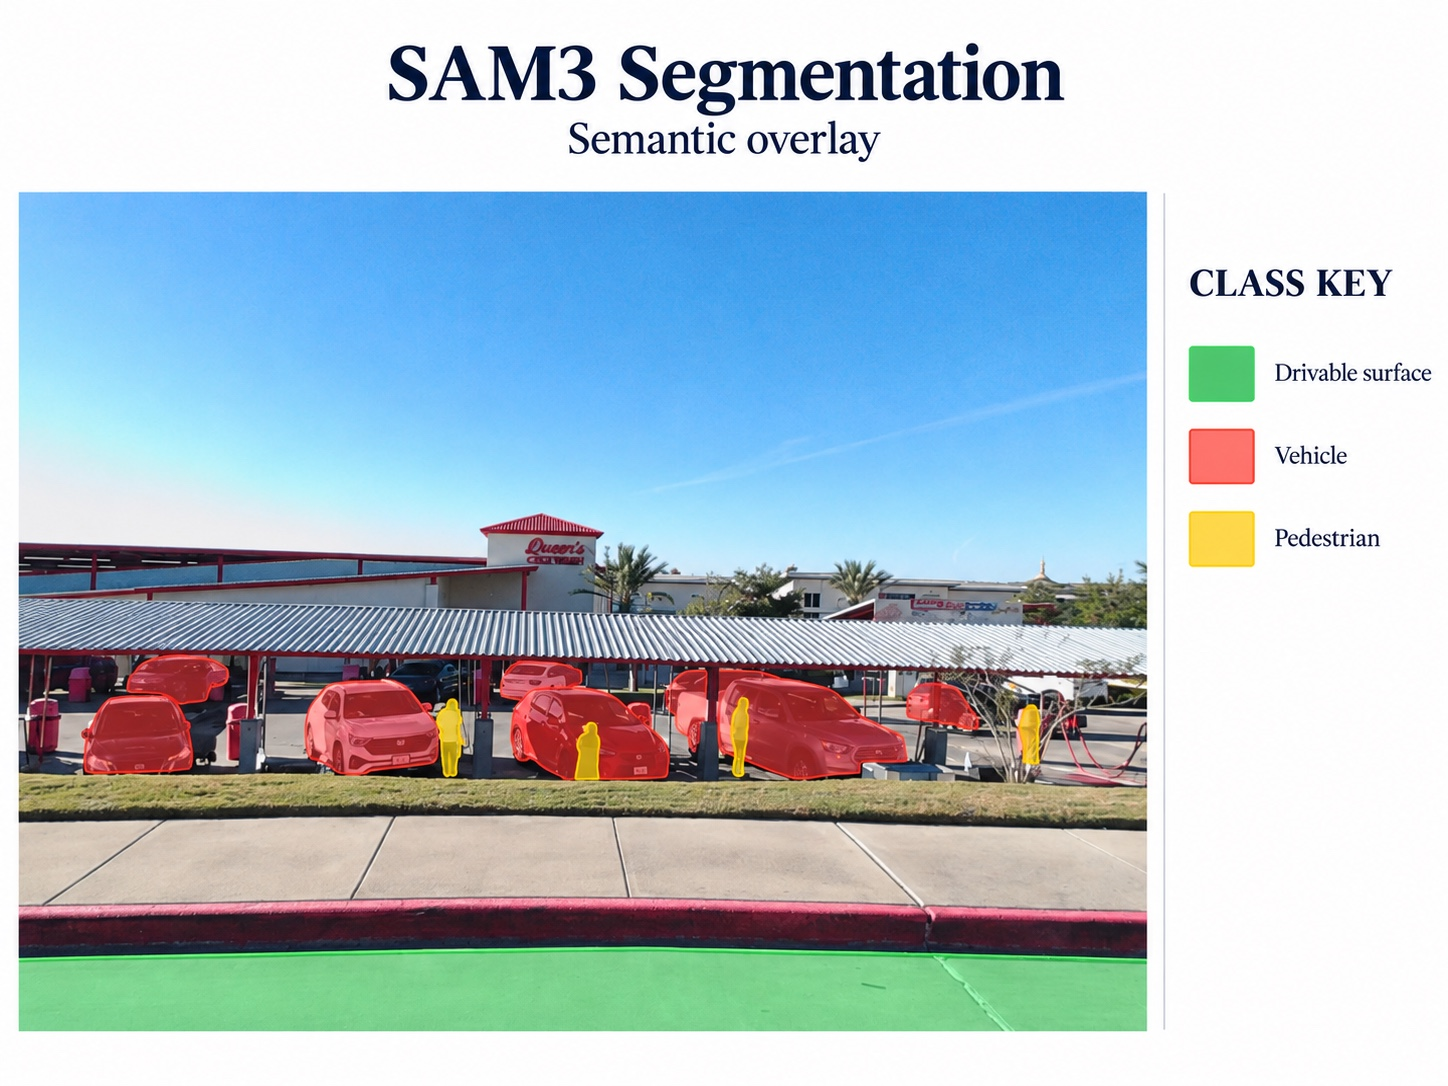
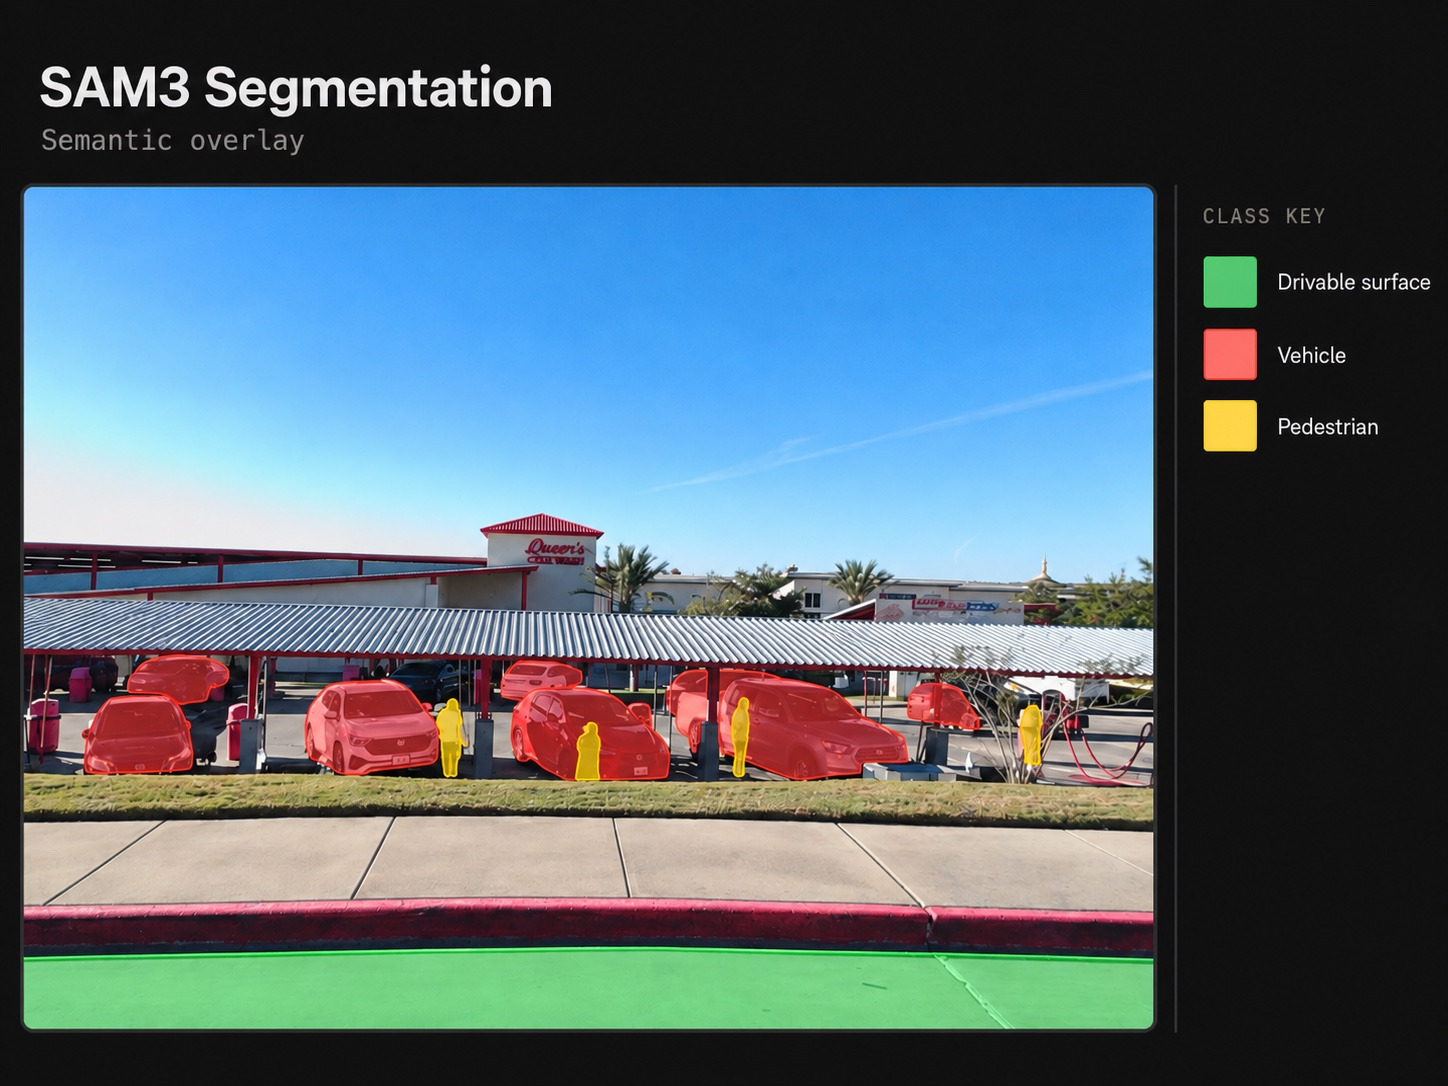
Mark project titles as links; update SAM3 segmentation image and caption

diff --git a/src/styles/global.css b/src/styles/global.css
@@ -395,8 +395,25 @@ section[id] { scroll-margin-top: 4.5rem; }
    one big click target while media links inside it remain clickable. */
 .item-linked { position: relative; }
 .item-linked .item-title { border-bottom: none; }
+/* Underline + arrow mark the title as a link; both strengthen on hover. */
+.item-title-text {
+  text-decoration: underline;
+  text-decoration-thickness: 1px;
+  text-decoration-color: color-mix(in srgb, var(--fg) 30%, transparent);
+  text-underline-offset: 0.3em;
+  transition: text-decoration-color 0.15s ease;
+}
+.item-arrow {
+  display: inline-block;
+  margin-left: 0.35em;
+  font-size: 0.95em;
+  color: var(--muted);
+  transition: transform 0.25s cubic-bezier(0.22, 1, 0.36, 1), color 0.2s ease;
+}
+.item-linked:hover:not(:has(.media:hover)) .item-title-text { text-decoration-color: var(--fg); }
+.item-linked:hover:not(:has(.media:hover)) .item-arrow { transform: translateX(4px); color: var(--fg); }
 .item-linked .item-title::after { content: ''; position: absolute; inset: 0; }
-.item-linked:has(.media:hover) .item-title { opacity: 1; }
+.item-linked:hover .item-title { opacity: 1; }
 
 /* ── Media panel ────────────────────────────────────────── */
 

diff --git a/src/content/experience/endeavr-institute.md b/src/content/experience/endeavr-institute.md
@@ -8,7 +8,7 @@ sortDate: 2026-09-10
 media:
   - image: ./media/endeavr-sam3-segmentation.jpg
     alt: SAM3 semantic segmentation overlay on a street scene, with vehicles in red, pedestrians in yellow, and drivable road surface in green
-    caption: SAM3 segmentation, semantic overlay
+    caption: "Auto-labeling with SAM3: per-pixel masks for drivable surface, vehicles, and pedestrians, exported as training data for perception models"
   - image: ./media/endeavr-bev-occupancy.jpg
     alt: Bird's-eye-view occupancy grids at 20, 40, and 80 cm resolution, built from three front camera views, with height-coded cells and RGB surface voxels
     caption: BEV occupancy grids at 20, 40, and 80 cm
